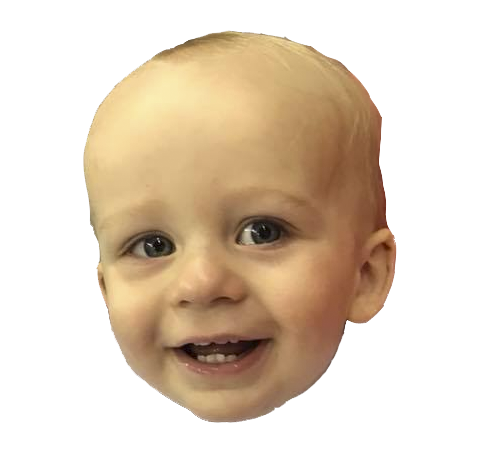
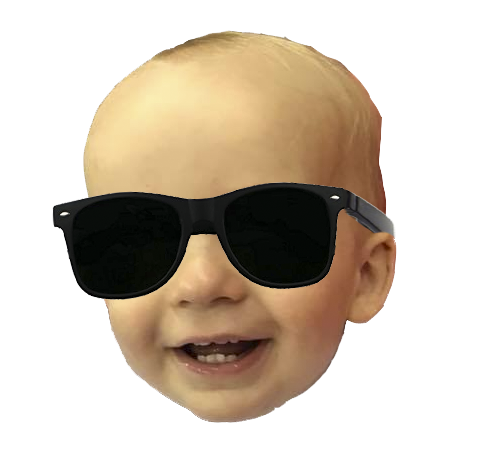
Remove garbage, add sunglasses to sunny picture closes #11

Changed region(s): [[0.0926, 0.3965, 0.8333, 0.671]]

diff --git a/index.html b/index.html
@@ -30,7 +30,7 @@
 								</div>
 
 								<div class="face_stacking_container">
-									<img class="centered" id="face_picture" height=250 width=250 src="assets/img/dax/01d.png"/>
+									<img class="centered" id="face_picture" height=225 width=225 src="assets/img/dax/01d.png"/>
 								</div>
 							</div>
 						</header>
